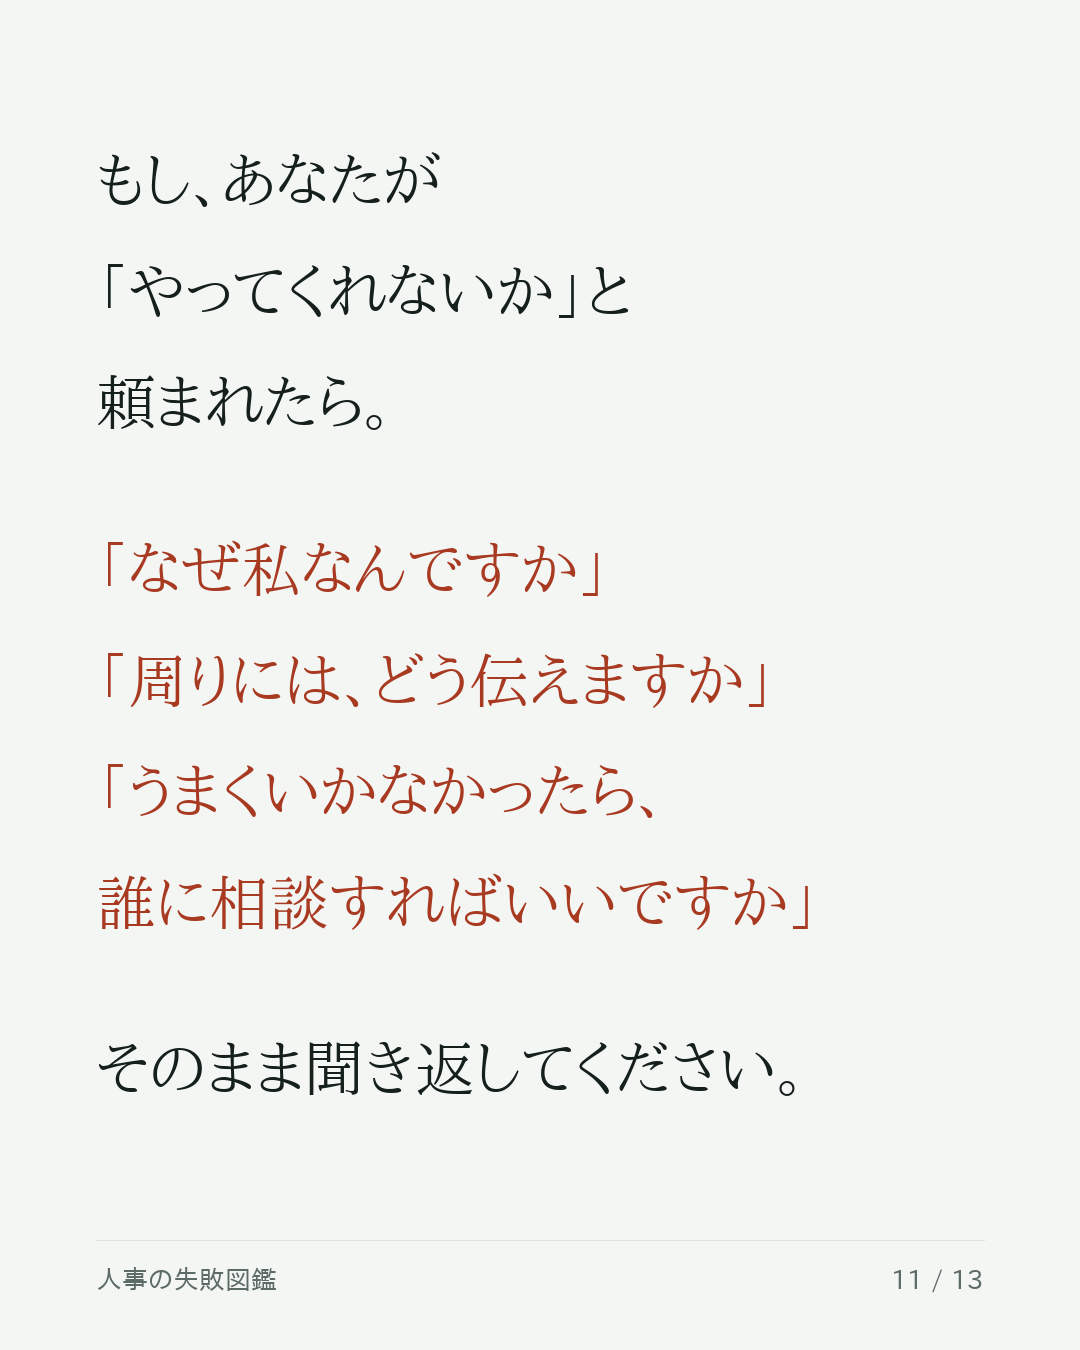
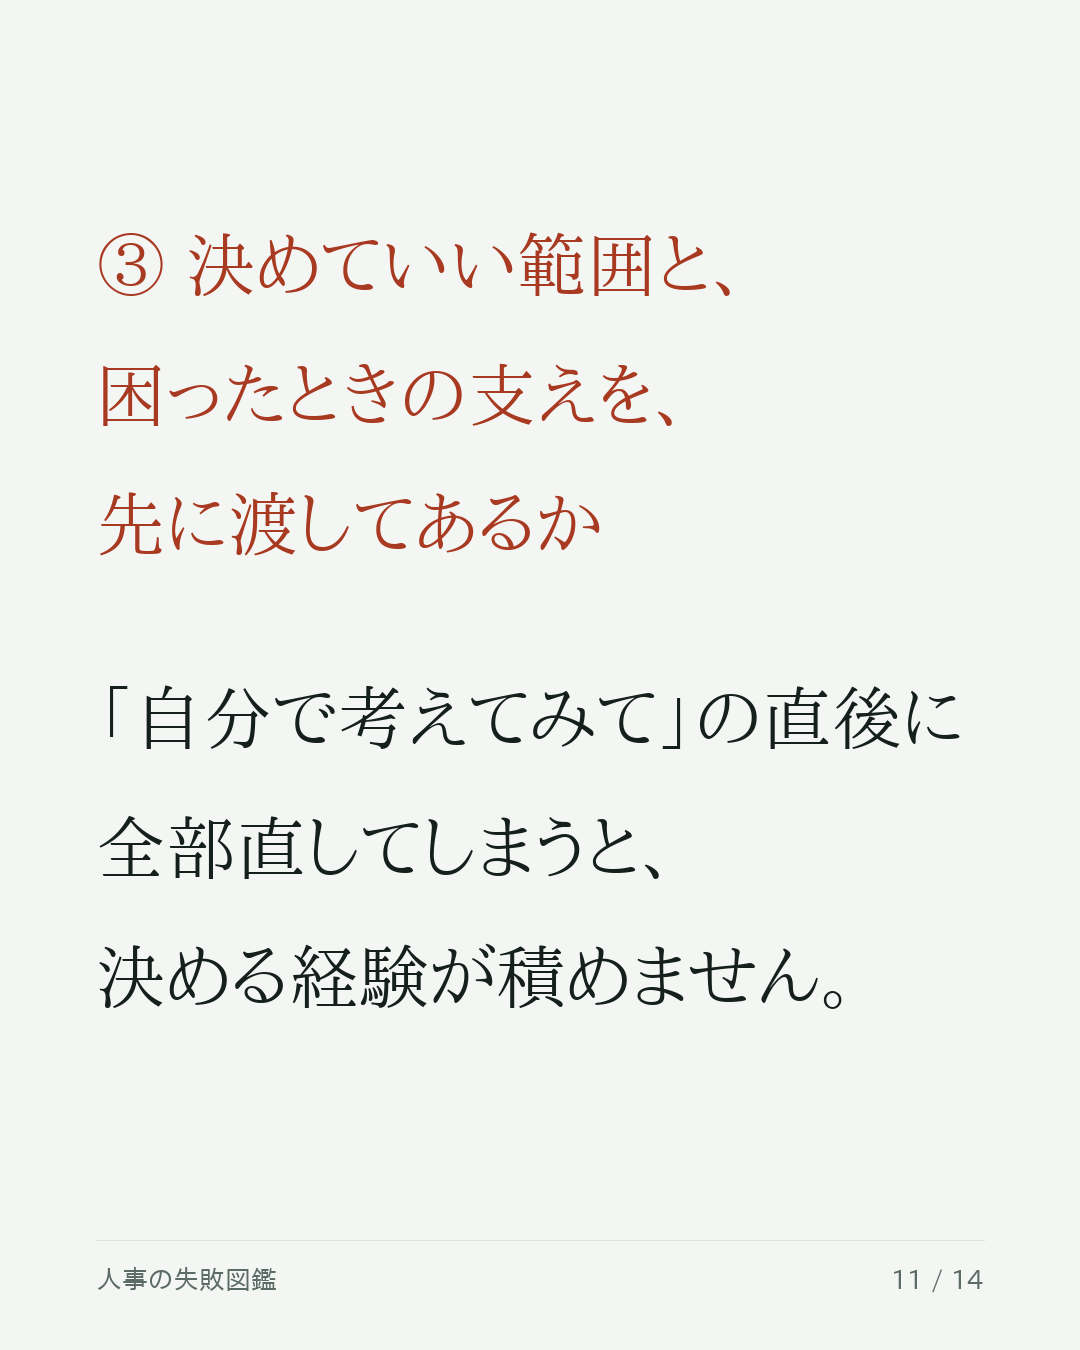
01(9/29)を ver.4 に：参考記事（yutori の採用と育て方）の考え方を融合
- 「穴から考えるか、人から考えるか」を追加
- ③を「決めていい範囲と、困ったときの支え」に広げ、聞き返す質問を4つに
- カルーセル14枚・キャプションを作り直し、swipe-file に素材として追記

Claude-Session: https://claude.ai/code/session_01YGJ9eDg6KFptkrdWVW6DzJ

diff --git a/note/drafts/01-denwa.md b/note/drafts/01-denwa.md
@@ -1,11 +1,17 @@
-# コラム01 原案 ver.3（読み手が持ち帰れる形に書き直し）
+# コラム01 原案 ver.4（読み手が持ち帰れる形に書き直し）
 
-> 約1,400字。**新しく創作した出来事はありません。** ただし末尾の「判断が必要なこと」の 2・4 は三井さんの確認が要ります。
+> 約1,450字。**新しく創作した出来事はありません。** ただし末尾の「判断が必要なこと」の 2・4 は三井さんの確認が要ります。
 >
 > **ver.3 で変えたこと**（9/29、三井さんから「分かりにくい・参考にならない」と指摘を受けて）
 > - 「空いた穴」が何を指すのかを、本文の中で言い切るようにした（管理者がいないと事業所は動かない → だから私が置かれた）
 > - 「任せる前に確かめる3つ」を、見出し付きで1つずつ理由まで書いた
 > - 求職者向けに「頼まれたら、この3つを聞き返していい」を足した。**読者がその日から使える部分**
+>
+> **ver.4 で足したこと**（9/29、三井さんの依頼で参考記事「yutori の採用と育て方」の考え方を融合）
+> - 「穴から考えるか、人から考えるか」（記事の「会社に必要な仕事に人を当てはめる／この人はどこに置けば強くなるか」）
+> - ③に「決めていい範囲」（記事の「任せるなら、決める権利まで渡す」「一回考えてみて、と言って全部直す」）
+> - 聞き返す質問に「どこまで、自分で決めていいですか」を追加
+> - **社名・数字・発言は本文に出していません。** 出典が X の投稿なので、`swipe-file.md` の方針どおり考え方だけ借りています
 >
 > ver.2 の方針（電話の場面は第0回で既出なので1行で流す）はそのまま。
 
@@ -55,11 +61,19 @@
 穴は、どの会社でも空きます。人が辞める。休む。立ち上げで人が足りない。
 そのたびに、誰かに「やってくれないか」と頼むことになります。
 
+そのとき、考える順番が二つあります。
+
+「この穴に、誰なら入れるか」から考えるか。
+「この人は何が得意で、どこに置けば一番力が出るか」から考えるか。
+
+穴から考えると、空いている人や、断らなそうな人が先に浮かびます。
+24歳の私は、たぶんこちらで選ばれました。
+
 だから頼む前に、次の3つを自分に確かめるようにしています。
 
 ## ① この人に任せる理由を、言葉にできるか
 
-「空いているから」「断らなそうだから」は、理由になりません。
+「空いているから」「断らなそうだから」は、穴の側の理由です。
 本人の何を見て任せるのかを、一文で言えるか。言えないなら、私は本人ではなく、穴の都合で選んでいます。
 
 ## ② その理由を、本人と周りに説明できるか
@@ -67,9 +81,12 @@
 本人が理由を知らなければ、何を期待されているのか分かりません。
 周りが知らなければ、本人は「なぜあの人が」という空気の中で始めることになります。
 
-## ③ うまくいかなかったときの支えを、先に決めてあるか
+## ③ 決めていい範囲と、困ったときの支えを、先に渡してあるか
 
-誰に相談すればいいのか。どこまでなら失敗していいのか。
+「一回、自分で考えてみて」と言ったすぐあとに、「いや、それよりこうしたほうがいい」と全部直してしまう。人を育てようとして、よく起きることです。
+これでは、いつまでたっても決める経験が積めません。
+
+どこまでは本人が決めていいのか。うまくいかなかったら、誰に相談すればいいのか。
 任せたあとに考えるのでは、遅いです。
 
 24歳の私には、そのどれもありませんでした。
@@ -79,10 +96,11 @@
 
 ## もし、あなたが「やってくれないか」と頼まれたら
 
-この3つを、そのまま聞き返してください。
+次の4つを、そのまま聞き返してください。
 
 「なぜ私なんですか」
 「周りには、どう伝えますか」
+「どこまで、自分で決めていいですか」
 「うまくいかなかったら、誰に相談すればいいですか」
 
 すぐに答えが返ってくる職場は、任せたあとのことまで考えています。
@@ -94,6 +112,7 @@
 
 穴を埋めるために人を置くこと自体が、悪いとは思っていません。私もそうやって始まりました。
 問題は、**置いたあとに何を渡すか**です。
+仕事だけではなく、決める権利まで渡せているか。
 
 そして正直に言うと、今もまだ、全部は渡せていません。
 

diff --git a/note/distribution.md b/note/distribution.md
@@ -489,10 +489,10 @@ X の運用で決めたルール（`swipe-file.md`）は、Instagram でも Thre
 `drafts/01-denwa.md` ／ 貼り付け用は `note-paste/01-denwa.txt`
 **ハッシュタグの5つ目は `#マネジメント`。**
 
-### Instagram（カルーセル13枚）
+### Instagram（カルーセル14枚）
 
-画像は `instagram/out/01/01〜13.png`。**2枚目が橋渡しスライドで、「原点編は、今日で最後です」が入っています。**
-ver.3（9/29 書き直し）で、8〜10枚目に「任せる前に確かめる3つ」、11〜12枚目に「頼まれたら聞き返す3つ」を入れました。**保存されるのはこの5枚です。**
+画像は `instagram/out/01/01〜14.png`。**2枚目が橋渡しスライドで、「原点編は、今日で最後です」が入っています。**
+ver.4（9/29 書き直し）で、8枚目に「穴から考えるか、人から考えるか」、9〜11枚目に「任せる前に確かめる3つ」、12〜13枚目に「頼まれたら聞き返す4つ」を入れました。**保存されるのはこの6枚です。**
 
 **キャプション**
 
@@ -511,6 +511,12 @@ ver.3（9/29 書き直し）で、8〜10枚目に「任せる前に確かめる3
 どれも聞かされず、私も聞きませんでした。
 
 いま私は、あの電話をかける側にいます。
+
+人に頼むとき、考える順番は二つあります。
+「この穴に、誰なら入れるか」から考えるか。
+「この人は、どこに置けば一番力が出るか」から考えるか。
+24歳の私は、たぶん前者で選ばれました。
+
 だから頼む前に、この3つを自分に確かめています。
 
 ① 任せる理由を、言葉にできるか
@@ -519,17 +525,19 @@ ver.3（9/29 書き直し）で、8〜10枚目に「任せる前に確かめる3
 ② その理由を、本人と周りに説明できるか
 周りが知らなければ、本人は「なぜあの人が」という空気の中で始めます。
 
-③ うまくいかなかったときの支えを、先に決めてあるか
-誰に相談するのか。どこまで失敗していいのか。任せたあとでは遅いです。
+③ 決めていい範囲と、困ったときの支えを、先に渡してあるか
+「自分で考えてみて」と言った直後に全部直してしまうと、決める経験が積めません。
 
 もし、あなたが「やってくれないか」と頼まれたら、そのまま聞き返してください。
 「なぜ私なんですか」
 「周りには、どう伝えますか」
+「どこまで、自分で決めていいですか」
 「うまくいかなかったら、誰に相談すればいいですか」
 
 すぐに答えが返ってくる職場は、任せたあとのことまで考えています。
 うちの面接で聞かれても、嫌な顔はしません。
 
+問題は、置いたあとに何を渡すか。決める権利まで渡せているか。
 正直に言うと、私も今もまだ、全部は渡せていません。
 
 全文はプロフィールのリンクから。

diff --git a/note/swipe-file.md b/note/swipe-file.md
@@ -198,6 +198,20 @@ FANZA記事が言っている原理のうち、使えるのはここだけです
 
 ---
 
+### 追加（2026-09-29）yutori の「採用と育て方」（山本千紗都氏の X 長文記事）
+
+**効いた回：01「私は、空いた穴でした」ver.4。** 考え方を3つ借りました。
+
+- 「会社に必要な仕事に人を当てはめる」か「この人はどこに置けば一番強くなるか」か → 01 の「穴から考えるか、人から考えるか」
+- 「任せるなら、決める権利まで渡す」「『一回考えてみて』と言った直後に全部直す」→ 01 の③と締め
+- 「明日一緒に働いたら、どう仕事をする人か」を選考で見る（課題面談） → **10/6 の実務回の候補**。面接で聞く質問の回に使える
+
+**輸入しないもの**
+- 社名・売上・選考フローなどの数字と固有名詞。出典が X の投稿で、一次ソース未確認のため（上の「X のスクレイプを一次ソースとして引用しない」）
+- 「オタク採用」のような企画名で目立たせる手法。この連載の読者は、目立つ求人より「嘘のない選考」を探している
+
+---
+
 ## 素材の追加について
 
 この分析は、今回いただいた14本に対するものです。今後追加された分は、この文書に追記していってください。
